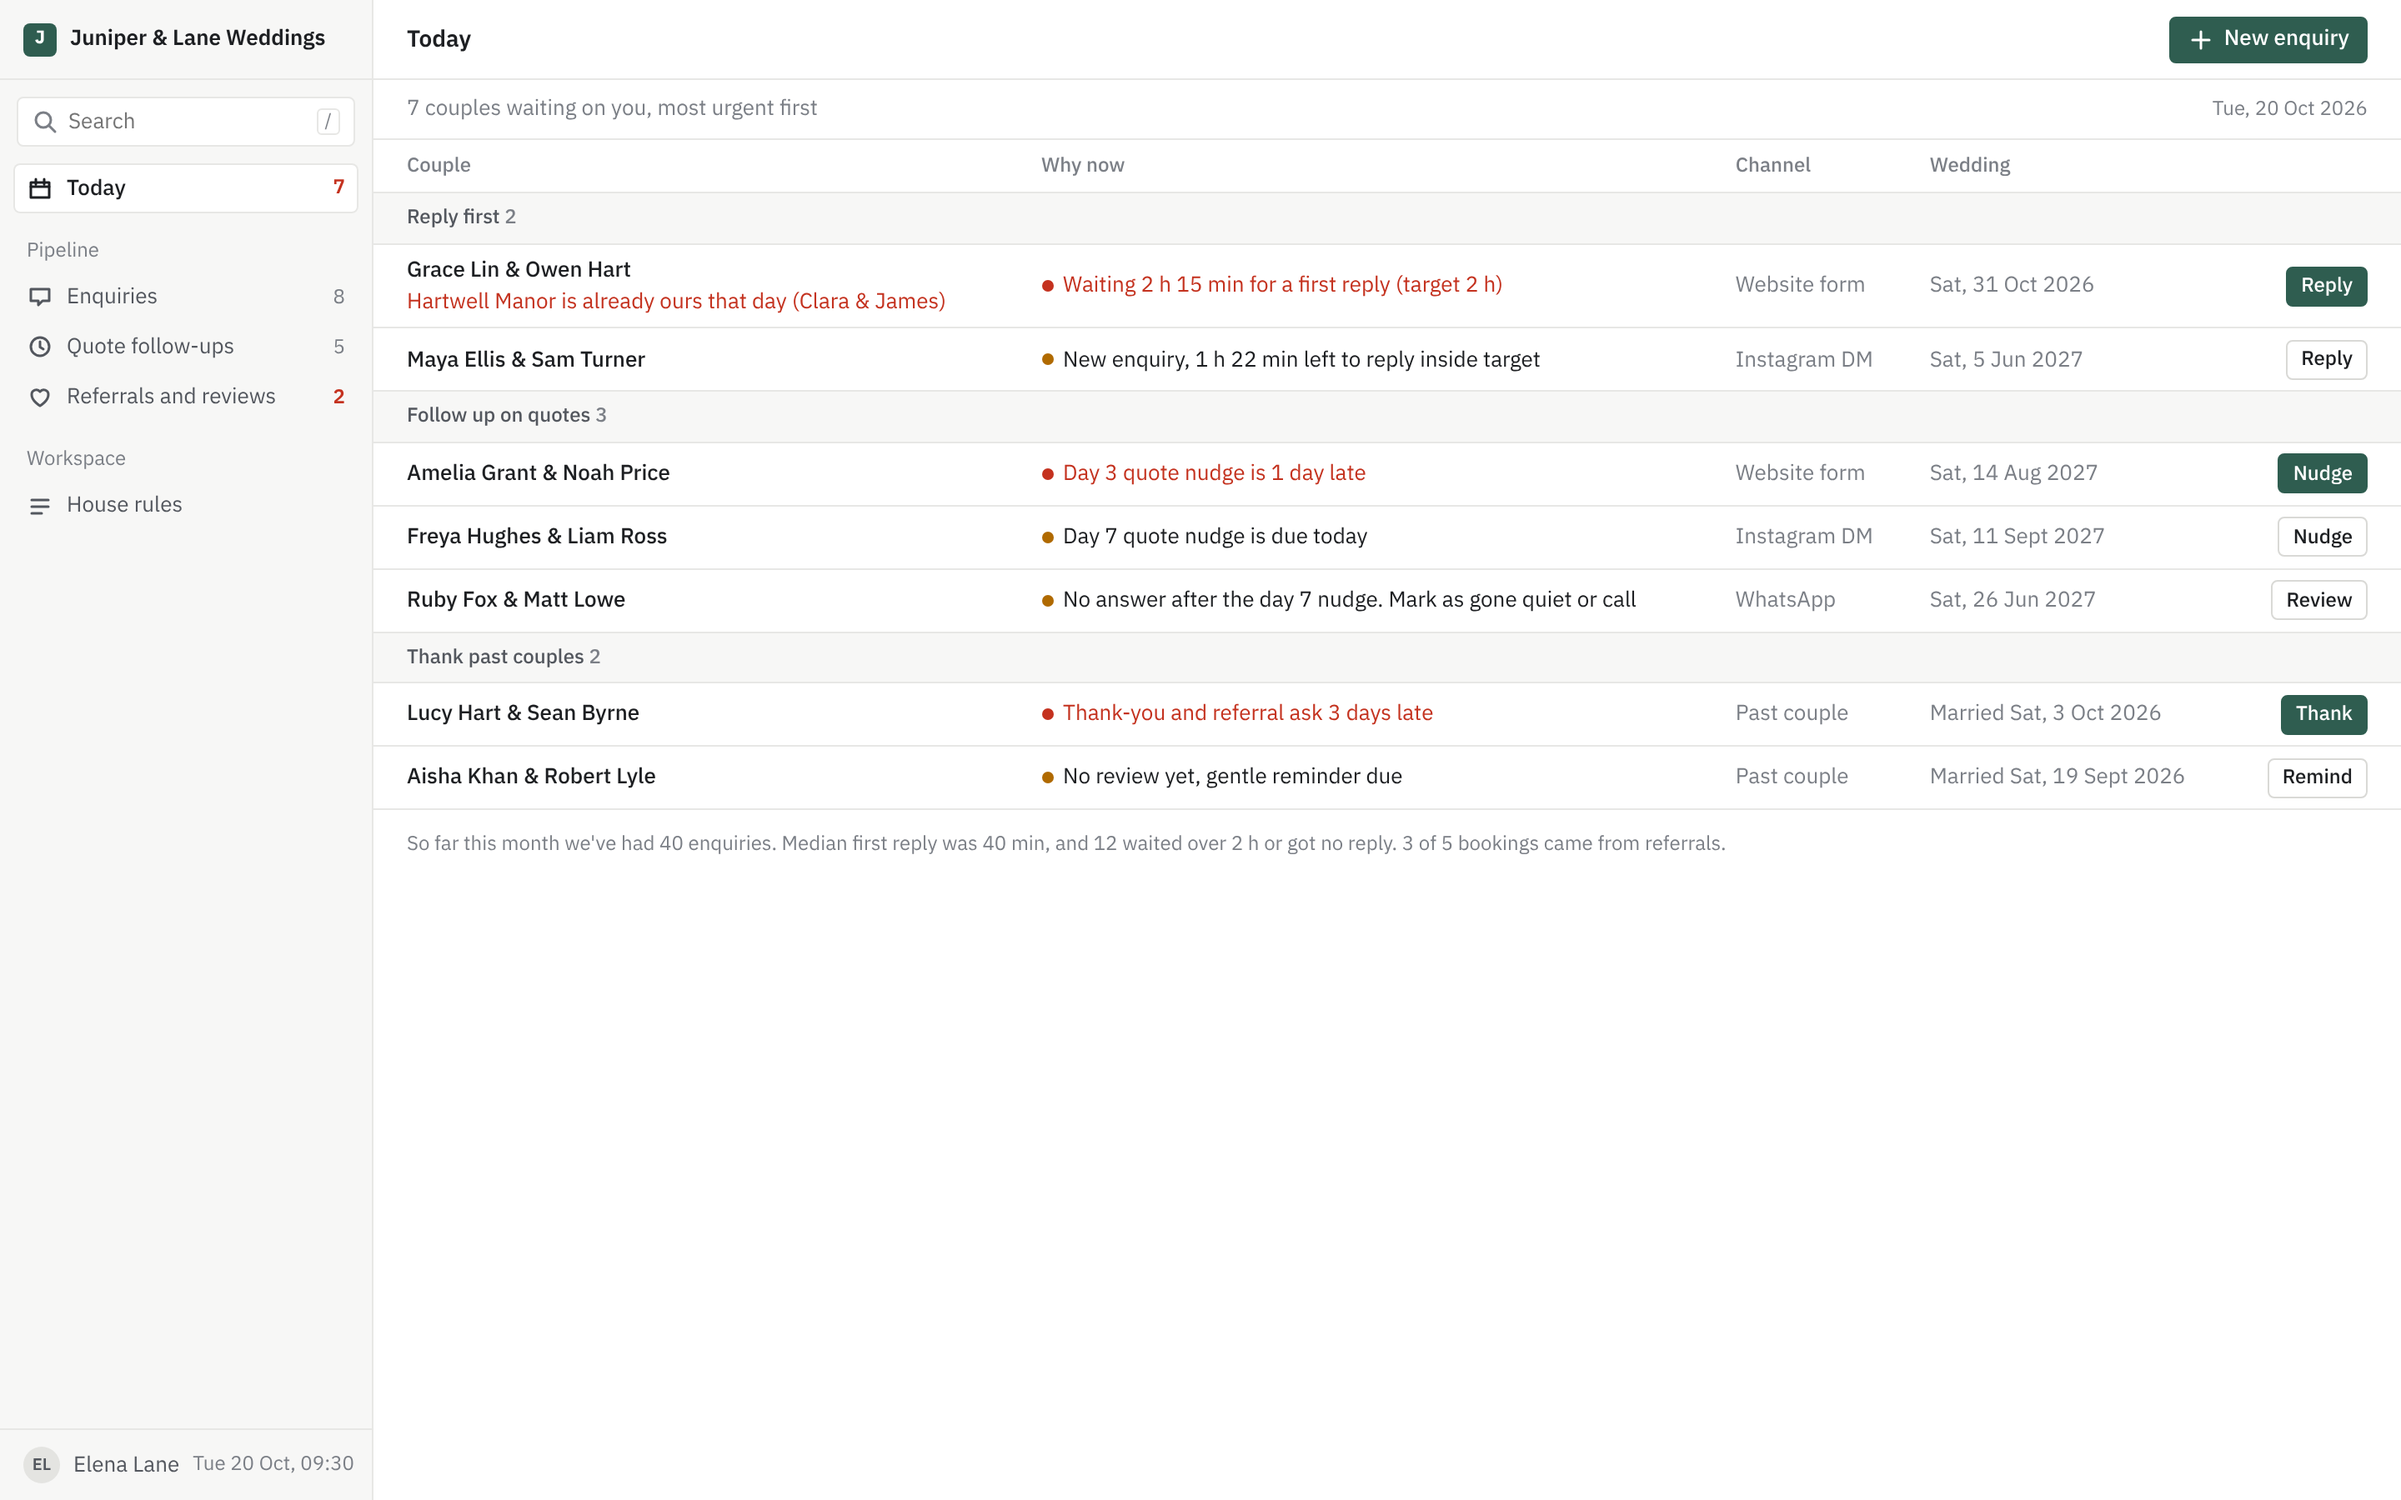
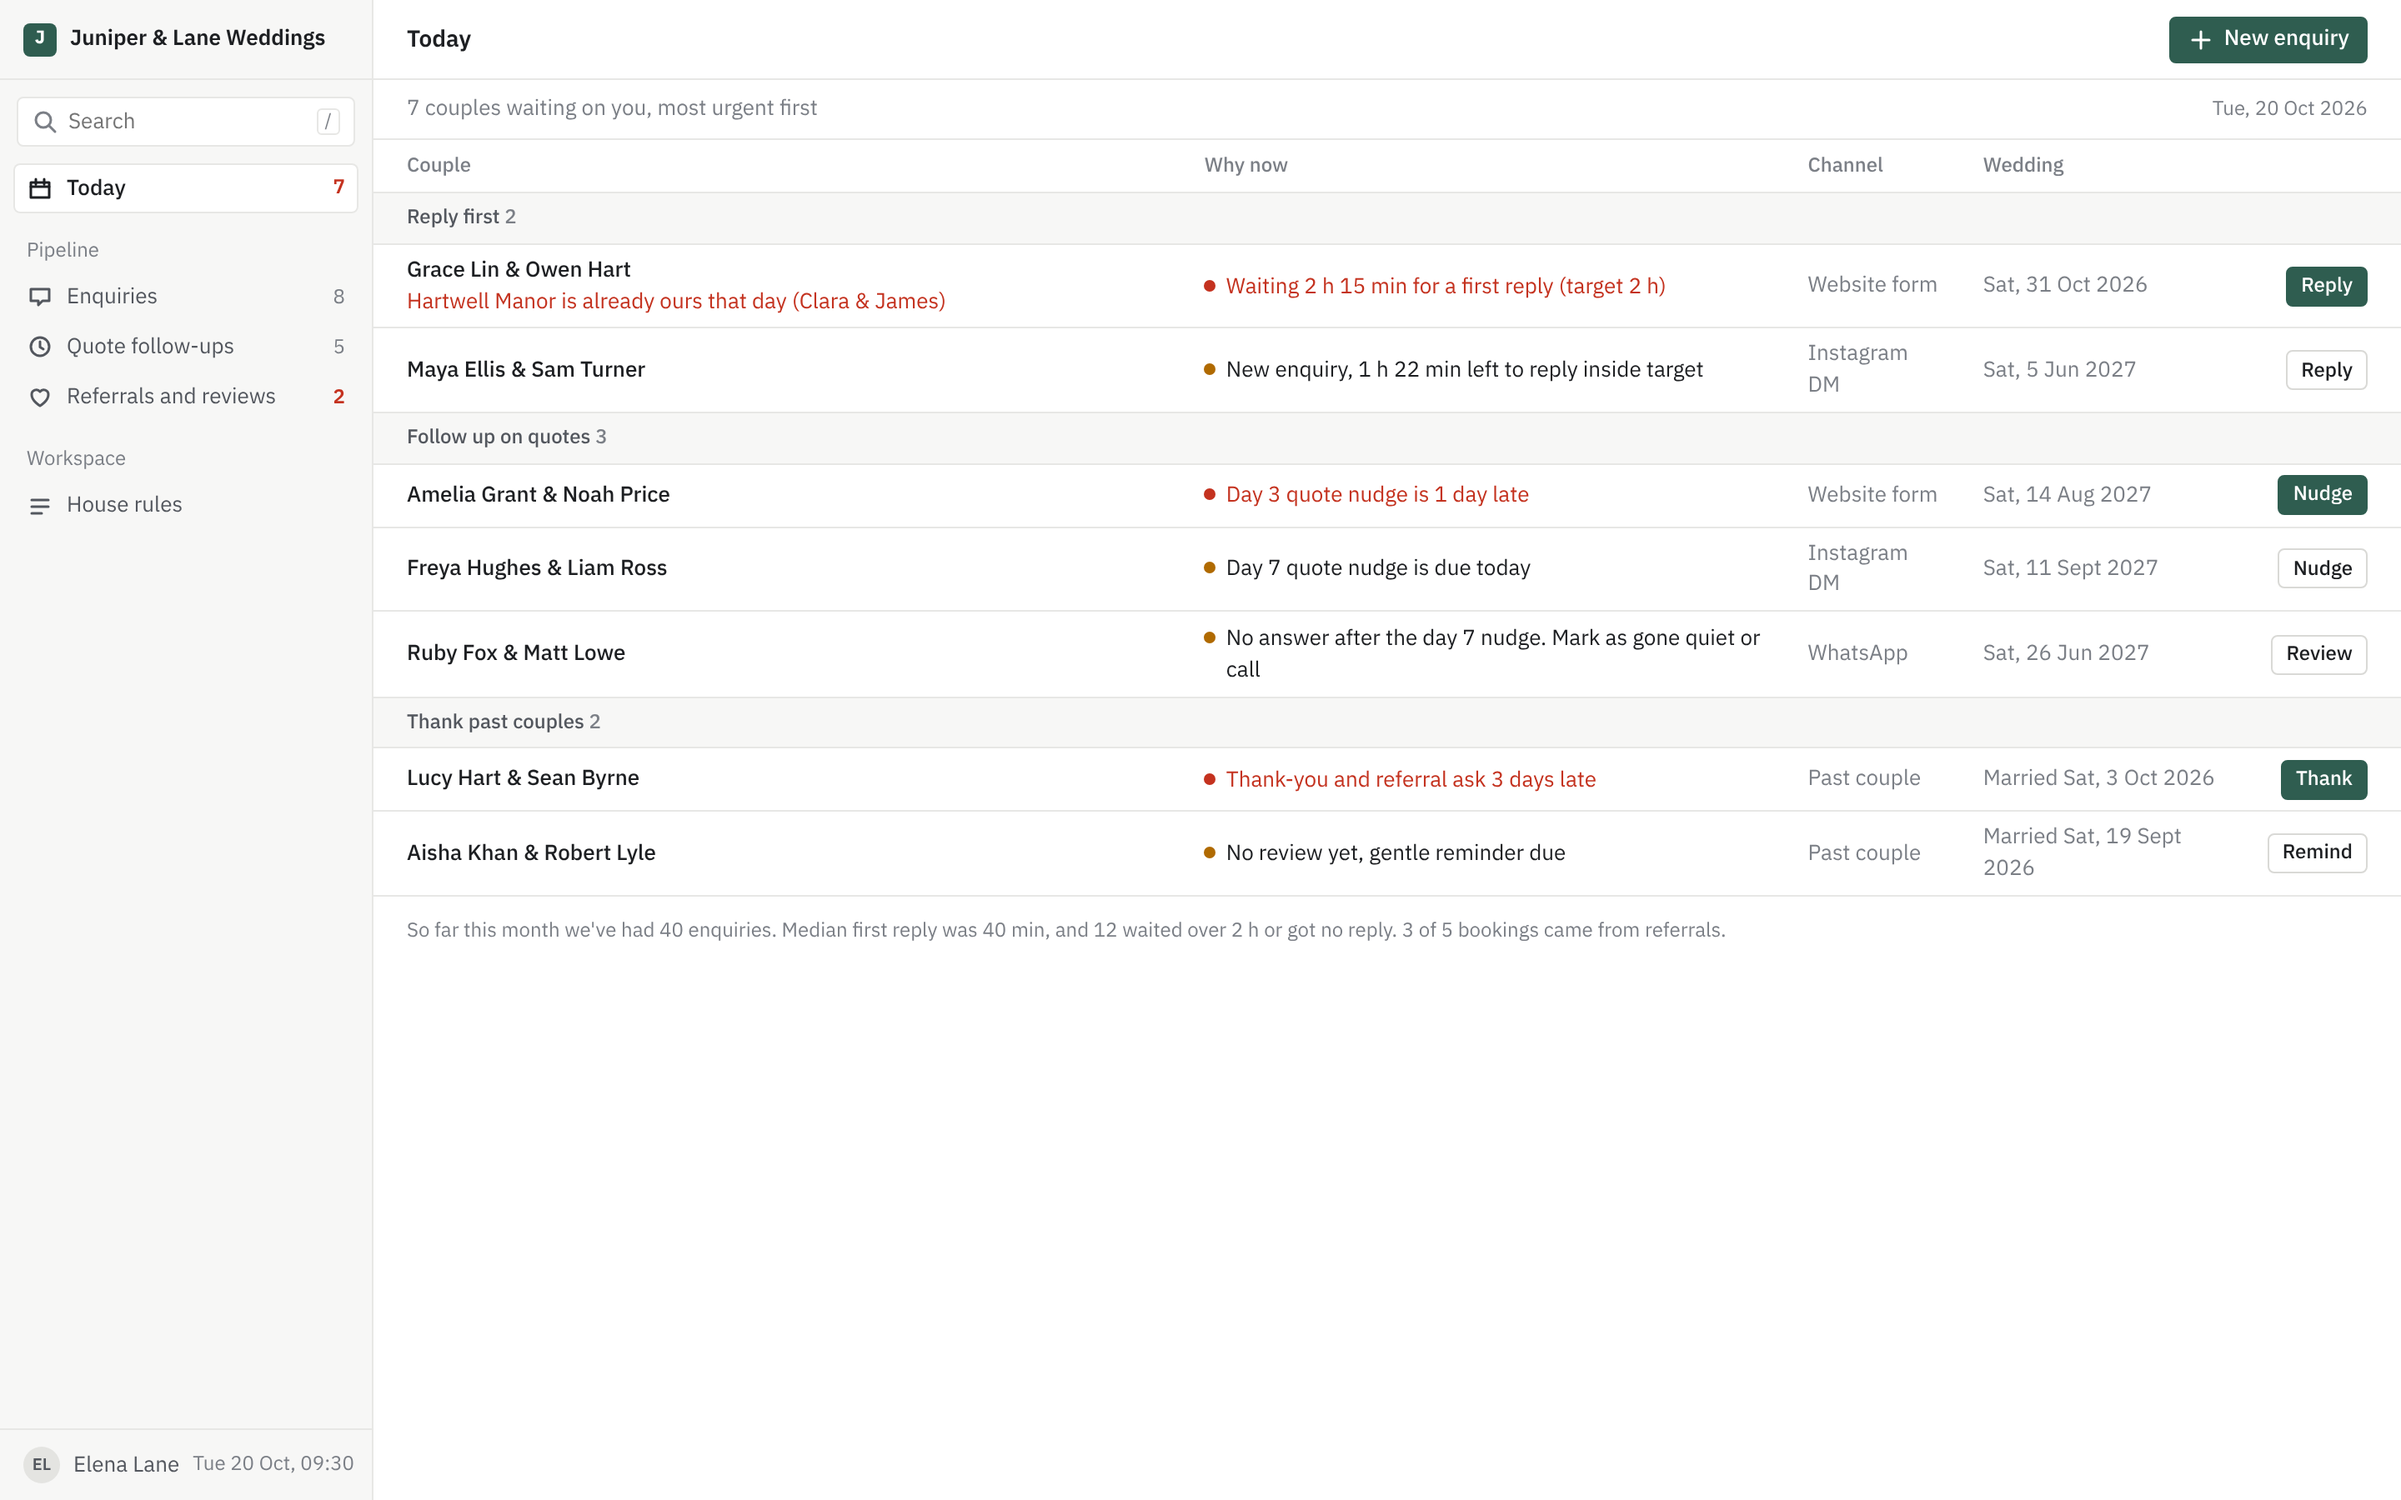
Tool 03: let Today rows wrap beside the record panel; update README test counts (62)

diff --git a/tool-03-wedding-planners/src/app.js b/tool-03-wedding-planners/src/app.js
@@ -102,15 +102,15 @@ function today() {
       const urgent = a.rank === 0 || a.rank === 2 || (a.kind === 'thank-you' && a.minutes > 0);
       return `<tr data-kind="${a.kind}" data-oid="${a.id}" class="${view.open?.id === a.id ? 'sel' : ''}">
         <td><span class="who">${esc(a.who)}</span>${!past ? checkLine(rec) : ''}</td>
-        <td>${st(urgent ? 'red' : 'amber', a.why)}</td>
-        <td class="sub2">${past ? 'Past couple' : rules.channels[rec.channel]}</td>
-        <td class="sub2">${past ? `Married ${shortDate(rec.weddingDate)}` : rec.weddingDate ? shortDate(rec.weddingDate) : 'No date yet'}</td>
+        <td class="wrap">${st(urgent ? "red" : "amber", a.why)}</td>
+        <td class="sub2 opt">${past ? 'Past couple' : rules.channels[rec.channel]}</td>
+        <td class="sub2 opt">${past ? `Married ${shortDate(rec.weddingDate)}` : rec.weddingDate ? shortDate(rec.weddingDate) : 'No date yet'}</td>
         <td class="num"><button class="btn sm ${urgent ? 'pri' : ''}" data-act="open" data-kind="${a.kind}" data-id="${a.id}">${ACTION_LABEL[a.kind]}</button></td></tr>`;
     }).join('') : `<tr class="grp"><td colspan="5" class="sub2" style="font-weight:400;background:#fff">Nothing waiting</td></tr>`);
   }).join('');
   return `${header('Today', '', addBtn)}
   <div class="tools"><span class="sub2">${q.length ? `${q.length} couple${q.length > 1 ? 's' : ''} waiting on you, most urgent first` : 'Nothing is waiting on you'}</span><span class="meta">${fmtDate(now())}</span></div>
-  <div class="page"><table class="tbl"><thead><tr><th>Couple</th><th>Why now</th><th>Channel</th><th>Wedding</th><th class="num"></th></tr></thead><tbody>${rows}</tbody></table>
+  <div class="page"><table class="tbl today"><thead><tr><th>Couple</th><th>Why now</th><th class="opt">Channel</th><th class="opt">Wedding</th><th class="num"></th></tr></thead><tbody>${rows}</tbody></table>
   <p class="month">So far this month we've had ${s.total} enquiries. Median first reply was ${R.fmtMinutes(s.medianReplyMinutes)}, and ${s.slowOrNone} waited over ${R.fmtMinutes(rules.firstReply.targetMinutes)} or got no reply. ${s.bookedFromReferrals} of ${s.booked} bookings came from referrals.</p></div>`;
 }
 

diff --git a/tool-03-wedding-planners/src/styles.css b/tool-03-wedding-planners/src/styles.css
@@ -131,3 +131,6 @@ code{font-size:12px;background:var(--side);border:1px solid var(--line);border-r
 .app.drawer-open .tbl .opt{display:none}
 .st.amber{color:var(--ink)}
 .side .me span{white-space:nowrap}
+.tbl td.wrap .st{white-space:normal}.tbl td.wrap .st::before{align-self:flex-start;margin-top:5px}
+.tbl.today td{white-space:normal}.tbl.today .st{white-space:normal}.tbl.today .st::before{align-self:flex-start;margin-top:5px}.tbl.today td.num{white-space:nowrap}
+.tbl.today td:first-child{width:40%}

diff --git a/tool-03-wedding-planners/README.md b/tool-03-wedding-planners/README.md
@@ -57,10 +57,10 @@ None live. A website-form webhook and calendar sync are on the roadmap.
 ## Testing
 ```bash
 npm test           # 56 rule and data tests (node --test, no install needed)
-npm run test:e2e   # 10 browser tests in Chrome via playwright-core
+npm run test:e2e   # 12 browser tests in Chrome via playwright-core
 npm run test:all   # both
 ```
-They cover each rule and its boundaries, bad and missing input, duplicates, empty data and 2,000 enquiries, plus the full reply → quote → nudge → booked flow, persistence after a reload, the phone layout, keyboard use and accessible names. The log is in [docs/06-build-log.md](docs/06-build-log.md).
+They cover each rule and its boundaries, bad and missing input, duplicates, empty data and 2,000 enquiries, plus the full reply → quote → nudge → booked flow, persistence after a reload, the phone layout, keyboard use, accessible names and design guardrails (no gradients, no emoji, no radius over 6px). The log is in [docs/06-build-log.md](docs/06-build-log.md).
 
 ## Deployment
 Any static host serving `index.html`, `src/`, `config/` and `sample-data/`. Not deployed.
